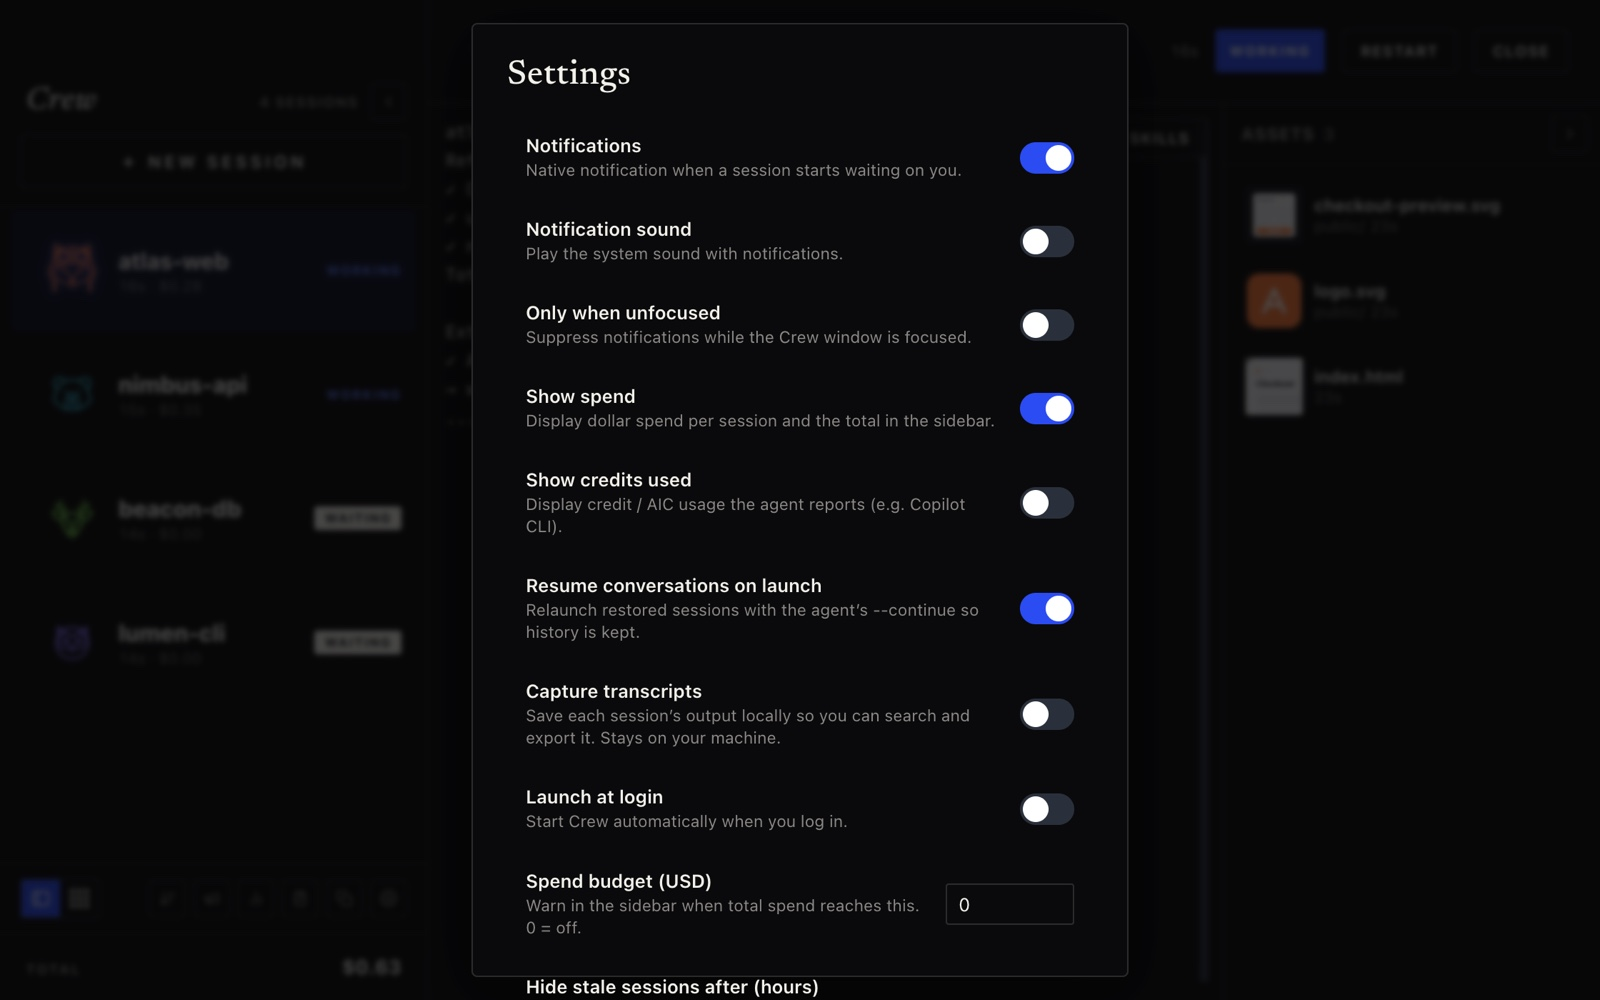
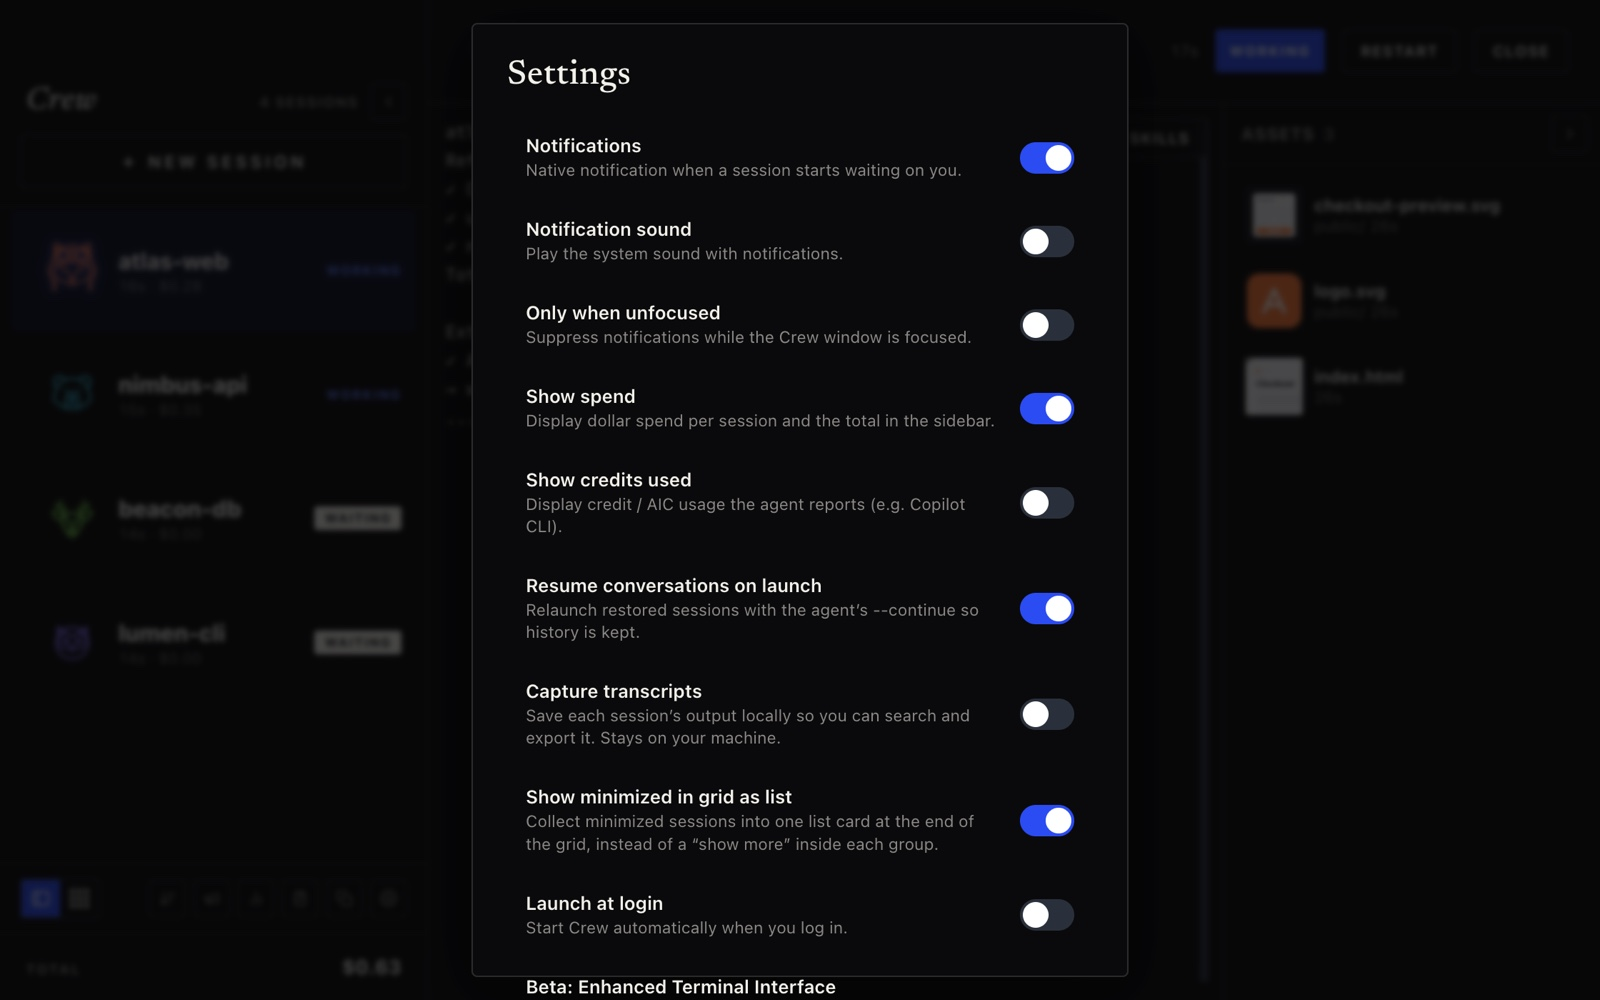
docs(guide): refresh for v0.4.0 — Enhanced Terminal, Transcript, tracker redesign
Bring the field guide up to date with the v0.4.0 release:
- New "Enhanced Terminal (Beta)" section (#13): command blocks, highlighted
  input rows, exit-code overview ruler, jump-to-prompt (⌘↑/⌘↓), clickable
  paths, inline images (Sixel/iTerm2), OSC 133 shell integration — with a
  real screenshot.
- New "Transcript view" section (#14): the typed read-layer with decision /
  approval / ran-command blocks and the Terminal/Transcript header toggle.
- Project Tracker recaptured for the redesigned Obsidian theme; copy now
  covers the Past Week review tab, "Shipped · 7d", recently-shipped commits,
  open tasks from the agent to-do list, and Launch local.
- Settings: document "Show minimized in grid as list", the Beta Enhanced
  Terminal toggle, and Auto/Manual cost mode.
- Skills: note the popularity heat dots.
- Windows section reworked for cross-platform (macOS + Windows, tray badge);
  hero + Getting Started updated to the new download assets
  (Crew-AppleSilicon.zip / Crew-Intel.zip / Crew-Setup.exe).
- Renamed the search modal section to "Search transcripts" to disambiguate
  from the new Transcript view. Feature count 21 → 23; sections renumbered;
  toolbar/tile callouts re-measured.

Harness (test/e2e/guide-shots.mjs): stage an OSC-133 shell-demo session under
the enabled Beta terminal for an authentic enhanced-terminal capture, and the
typed Transcript via the demo-fixtures flag; capture the redesigned tracker
(All tab) and the Activity tab.
[…]

diff --git a/docs/guide.html b/docs/guide.html
@@ -205,7 +205,7 @@
   <div class="nav-links">
     <a class="hide-sm" href="./index.html">Home</a>
     <a class="hide-sm" href="https://github.com/alexselig/crew">GitHub</a>
-    <a class="nav-cta" href="https://github.com/alexselig/crew/releases/latest/download/Crew-arm64.dmg">Download</a>
+    <a class="nav-cta" href="https://github.com/alexselig/crew/releases/latest">Download</a>
   </div>
 </nav>
 
@@ -215,7 +215,7 @@
     <div class="eyebrow">The Field Guide</div>
     <h1>Crew, <span class="accent">explained</span>.</h1>
     <p class="hero__lede">Crew runs a whole crew of AI coding agents side by side and tells you the moment one needs you. This is the complete tour — every view, every button, every panel — with a screenshot for each.</p>
-    <div class="hero__meta"><span><b>21</b> features indexed</span><span>·</span><span>Real screenshots</span><span>·</span><span>macOS · 100% local</span></div>
+    <div class="hero__meta"><span><b>23</b> features indexed</span><span>·</span><span>Real screenshots</span><span>·</span><span>macOS + Windows · 100% local</span></div>
   </div>
 </header>
 
@@ -233,15 +233,17 @@
     <a class="qi" href="#sorting"><span class="qi__n">10</span><b class="qi__t">Sorting &amp; grouping</b></a>
     <a class="qi" href="#assets"><span class="qi__n">11</span><b class="qi__t">The assets pane</b></a>
     <a class="qi" href="#skills"><span class="qi__n">12</span><b class="qi__t">Skills</b></a>
-    <a class="qi" href="#broadcast"><span class="qi__n">13</span><b class="qi__t">Broadcast</b></a>
-    <a class="qi" href="#analytics"><span class="qi__n">14</span><b class="qi__t">Activity &amp; spend</b></a>
-    <a class="qi" href="#tracker"><span class="qi__n">15</span><b class="qi__t">Project Tracker</b></a>
-    <a class="qi" href="#transcripts"><span class="qi__n">16</span><b class="qi__t">Transcripts</b></a>
-    <a class="qi" href="#palette"><span class="qi__n">17</span><b class="qi__t">Palette &amp; shortcuts</b></a>
-    <a class="qi" href="#settings"><span class="qi__n">18</span><b class="qi__t">Settings</b></a>
-    <a class="qi" href="#autopilot"><span class="qi__n">19</span><b class="qi__t">Autopilot</b></a>
-    <a class="qi" href="#windows"><span class="qi__n">20</span><b class="qi__t">Windows &amp; menu bar</b></a>
-    <a class="qi" href="#start"><span class="qi__n">21</span><b class="qi__t">Getting started</b></a>
+    <a class="qi" href="#terminal"><span class="qi__n">13</span><b class="qi__t">Enhanced Terminal</b></a>
+    <a class="qi" href="#transcript"><span class="qi__n">14</span><b class="qi__t">Transcript view</b></a>
+    <a class="qi" href="#broadcast"><span class="qi__n">15</span><b class="qi__t">Broadcast</b></a>
+    <a class="qi" href="#analytics"><span class="qi__n">16</span><b class="qi__t">Activity &amp; spend</b></a>
+    <a class="qi" href="#tracker"><span class="qi__n">17</span><b class="qi__t">Project Tracker</b></a>
+    <a class="qi" href="#transcripts"><span class="qi__n">18</span><b class="qi__t">Search transcripts</b></a>
+    <a class="qi" href="#palette"><span class="qi__n">19</span><b class="qi__t">Palette &amp; shortcuts</b></a>
+    <a class="qi" href="#settings"><span class="qi__n">20</span><b class="qi__t">Settings</b></a>
+    <a class="qi" href="#autopilot"><span class="qi__n">21</span><b class="qi__t">Autopilot</b></a>
+    <a class="qi" href="#windows"><span class="qi__n">22</span><b class="qi__t">Windows, menu bar &amp; platforms</b></a>
+    <a class="qi" href="#start"><span class="qi__n">23</span><b class="qi__t">Getting started</b></a>
   </div>
 </div>
 
@@ -261,14 +263,16 @@
       <li><a href="#sorting">Sorting &amp; grouping</a></li>
       <li><a href="#assets">The assets pane</a></li>
       <li><a href="#skills">Skills</a></li>
+      <li><a href="#terminal">Enhanced Terminal</a></li>
+      <li><a href="#transcript">Transcript view</a></li>
       <li><a href="#broadcast">Broadcast</a></li>
       <li><a href="#analytics">Activity &amp; spend</a></li>
       <li><a href="#tracker">Project Tracker</a></li>
-      <li><a href="#transcripts">Transcripts</a></li>
+      <li><a href="#transcripts">Search transcripts</a></li>
       <li><a href="#palette">Palette &amp; shortcuts</a></li>
       <li><a href="#settings">Settings</a></li>
       <li><a href="#autopilot">Autopilot</a></li>
-      <li><a href="#windows">Windows &amp; menu bar</a></li>
+      <li><a href="#windows">Windows, menu bar &amp; platforms</a></li>
       <li><a href="#start">Getting started</a></li>
     </ol>
   </aside>
@@ -559,18 +563,54 @@
       <p class="lead">The <b>⚡ Skills</b> chip above the terminal opens a gallery of reusable actions, grouped into categories. Crew reads the skills your agent actually has installed (Copilot / Claude), and you can pin favorites or add your own.</p>
       <figure>
         <div class="frame frame--mid"><img loading="lazy" src="assets/guide/skills.jpg" alt="The categorized skills gallery open" /></div>
-        <figcaption>The skills gallery: filter, categorized sections with colored swatches, favorite (★), and invoke.</figcaption>
+        <figcaption>The skills gallery: filter, categorized sections with colored swatches, a popularity <b>heat dot</b>, favorite (★), and invoke.</figcaption>
       </figure>
       <ul class="feat">
         <li><b>Filter</b> to find a skill fast; <b>favorites</b> pin to the front.</li>
+        <li>Each skill carries a small <b>heat dot</b> — hotter means more widely used across your installed set — so popular skills are easy to spot.</li>
         <li>Click a skill to read its description; click again (or <b>Invoke</b>) to type <code>use &lt;skill&gt; to …</code> into the session for you.</li>
         <li><b>＋ Add</b> your own custom skills (name, invoke token, description) — stored locally.</li>
       </ul>
     </section>
 
-    <!-- 13 BROADCAST -->
+    <!-- 13 ENHANCED TERMINAL -->
+    <section class="doc" id="terminal">
+      <div class="sec-eyebrow">13 · Beta</div>
+      <h2>The Enhanced Terminal.</h2>
+      <p class="lead">Flip on <b>Beta: Enhanced Terminal Interface</b> in <a href="#settings">Settings</a> and every session renders with Crew’s own GPU-accelerated terminal engine — the same stream, but now it understands the <em>shape</em> of your session.</p>
+      <figure>
+        <div class="frame"><img loading="lazy" src="assets/guide/enhanced-terminal.jpg" alt="The enhanced terminal with highlighted input rows and an exit-code overview ruler" /></div>
+        <figcaption>Command blocks, highlighted input rows, and the exit-code overview ruler on the right.</figcaption>
+      </figure>
+      <ul class="feat">
+        <li><b>Your input rows are highlighted</b> — every command you run gets a light row + amber bar, so the conversation is easy to scan.</li>
+        <li><b>Overview ruler</b> (right edge) — a map of the whole session: your prompts, plus <span style="color:#3fb950">green</span> / <span style="color:#e5484d">red</span> ticks for each command’s exit code.</li>
+        <li><b>Jump between prompts</b> with <kbd>⌘↑</kbd> / <kbd>⌘↓</kbd> (Ctrl on Windows).</li>
+        <li><b>Clickable paths &amp; links</b> — underlined, and open in Assets or your browser.</li>
+        <li><b>Inline images</b> (Sixel / iTerm2) so agents can render plots and diffs right in the stream, and opt-in <b>shell integration</b> (OSC 133) sharpens the command marks.</li>
+      </ul>
+      <div class="note">It’s <b>beta</b> and opt-in — toggling it reloads open terminals. The classic terminal remains the default.</div>
+    </section>
+
+    <!-- 14 TRANSCRIPT VIEW -->
+    <section class="doc" id="transcript">
+      <div class="sec-eyebrow">14 · Read your session like a story</div>
+      <h2>The Transcript view.</h2>
+      <p class="lead">With the enhanced terminal on, each session gains a <b>Terminal / Transcript</b> toggle in its header. The Transcript is a typed read-layer over the raw stream: your prompts, the agent’s replies, the commands it ran (with exit codes), and — crucially — the moments it’s <em>blocked on you</em>, all as clean blocks.</p>
+      <figure>
+        <div class="frame"><img loading="lazy" src="assets/guide/transcript.jpg" alt="The typed Transcript view with decision and approval blocks" /></div>
+        <figcaption>Decisions, approvals and ran-commands as structured blocks — answer a question or approve a command right from the transcript.</figcaption>
+      </figure>
+      <ul class="feat">
+        <li><b>Decisions</b> — numbered choices you can click (or press the number) to answer.</li>
+        <li><b>Approvals</b> — “Fox wants to run …” with <b>Deny / Once / Always allow</b>, wired back to the session.</li>
+        <li><b>Ran commands</b> — each with its status and exit code; the raw terminal stays the source of truth.</li>
+      </ul>
+    </section>
+
+    <!-- 15 BROADCAST -->
     <section class="doc" id="broadcast">
-      <div class="sec-eyebrow">13 · One prompt, many agents</div>
+      <div class="sec-eyebrow">15 · One prompt, many agents</div>
       <h2>Broadcast.</h2>
       <p class="lead">Send the same message to several sessions at once — great for “run the tests” or a coordinated checkpoint.</p>
       <figure>
@@ -582,7 +622,7 @@
 
     <!-- 14 ANALYTICS -->
     <section class="doc" id="analytics">
-      <div class="sec-eyebrow">14 · Where the time &amp; money went</div>
+      <div class="sec-eyebrow">16 · Where the time &amp; money went</div>
       <h2>Activity &amp; spend.</h2>
       <p class="lead">Two tabs. <b>Spend</b> totals how long each session kept you waiting, what it cost, and any credits used. <b>Activity</b> is a commit feed — the git history across your open sessions' repos, newest first, with release commits highlighted.</p>
       <figure>
@@ -595,38 +635,39 @@
       </figure>
     </section>
 
-    <!-- 15 PROJECT TRACKER -->
+    <!-- 17 PROJECT TRACKER -->
     <section class="doc" id="tracker">
-      <div class="sec-eyebrow">15 · Mission control for your repos</div>
+      <div class="sec-eyebrow">17 · Mission control for your repos</div>
       <h2>The Project Tracker.</h2>
-      <p class="lead">The clipboard button opens a full-screen <b>Project Index</b> — a live dashboard built from the working directories of your open sessions. Each session becomes a project card, derived straight from disk: git status, version, next steps, suggestions, and commit history.</p>
+      <p class="lead">The clipboard button opens a full-screen <b>Project Index</b> — a live dashboard built from the working directories of your open sessions. Each session becomes a project card, derived straight from disk: git status, version, what shipped recently, open tasks, and commit history.</p>
       <figure>
         <div class="frame"><img loading="lazy" src="assets/guide/tracker.jpg" alt="The full-screen Project Tracker dashboard" /></div>
-        <figcaption>The Project Tracker: totals up top, tag filters, then a card per project.</figcaption>
+        <figcaption>The Project Tracker: totals (Projects · Shipped 7d · Open tasks), tab filters, then a card per project.</figcaption>
       </figure>
       <ul class="feat">
         <li><b>Status at a glance</b> — a colored dot (active / recent / stale) and an “N open” task count per project.</li>
-        <li><b>Next steps</b> — pulled from each repo's <code>TODO.md</code>, <code>ROADMAP.md</code> or a “Next steps” heading; <b>Suggestions</b> are auto-derived (a missing README, stray TODO/FIXME markers…).</li>
-        <li><b>Feature history</b> — expand a project to read its changelog + commit history.</li>
-        <li><b>▶ Launch local</b> — start a project's dev server right from the tracker (Vite / Next / Node), then stop it again.</li>
+        <li><b>Recently shipped</b> — the week’s commits per project; <b>Open tasks</b> come from the session’s live agent to-do list and each repo’s <code>TODO.md</code> / “Next steps”.</li>
+        <li><b>Proposed next steps</b> — gentle auto-suggestions (add a README, wire up tests, push a remote…).</li>
+        <li><b>▶ Launch local</b> — start a project’s dev server right from the tracker (Vite / Next / Node), then stop it again.</li>
+        <li><b>Past Week</b> tab — a review of your Copilot CLI history: sessions, active days, projects and tokens for the last 7 days.</li>
         <li><b>Grouped by your session tags</b>, filterable, with an <b>Auto</b> re-scan every 20s.</li>
       </ul>
     </section>
 
-    <!-- 16 TRANSCRIPTS -->
+    <!-- 18 SEARCH TRANSCRIPTS -->
     <section class="doc" id="transcripts">
-      <div class="sec-eyebrow">16 · Search your history</div>
-      <h2>Transcripts.</h2>
-      <p class="lead">Turn on <b>Capture transcripts</b> in Settings and Crew saves each session’s output locally so you can search across everything and export a session later. It never leaves your machine.</p>
+      <div class="sec-eyebrow">18 · Search your history</div>
+      <h2>Search transcripts.</h2>
+      <p class="lead">Different from the live <a href="#transcript">Transcript view</a>: turn on <b>Capture transcripts</b> in Settings and Crew saves each session’s output locally so you can search across <em>everything</em> and export a session later. It never leaves your machine.</p>
       <figure>
         <div class="frame frame--mid"><img loading="lazy" src="assets/guide/transcripts.jpg" alt="The transcripts search modal" /></div>
         <figcaption>Search saved output across sessions, then export the selected one.</figcaption>
       </figure>
     </section>
 
-    <!-- 16 PALETTE -->
+    <!-- 19 PALETTE -->
     <section class="doc" id="palette">
-      <div class="sec-eyebrow">17 · Move fast</div>
+      <div class="sec-eyebrow">19 · Move fast</div>
       <h2>Command palette &amp; shortcuts.</h2>
       <p class="lead">Press <kbd>⌘K</kbd> for a fuzzy quick-switcher: jump to any session, run any action, or switch workspace without touching the mouse.</p>
       <figure>
@@ -645,49 +686,54 @@
 
     <!-- 17 SETTINGS -->
     <section class="doc" id="settings">
-      <div class="sec-eyebrow">18 · Dial it in</div>
+      <div class="sec-eyebrow">20 · Dial it in</div>
       <h2>Settings.</h2>
       <p class="lead">Everything is off-by-default-sensible, but you can tune it all.</p>
       <figure>
         <div class="frame frame--mid"><img loading="lazy" src="assets/guide/settings.jpg" alt="The settings panel" /></div>
-        <figcaption>Notifications, spend &amp; credits display, transcripts, launch-at-login, a spend budget and stale-session hiding.</figcaption>
+        <figcaption>Notifications, spend &amp; credits, transcripts, minimized-as-list, the Beta Enhanced Terminal, launch-at-login, a spend budget and stale-session hiding.</figcaption>
       </figure>
       <ul class="feat">
         <li><b>Notifications</b> — native alert (with optional sound) when a session starts waiting; optionally only when Crew isn’t focused.</li>
         <li><b>Show spend / credits</b> — per-session and total in the sidebar.</li>
         <li><b>Resume conversations on launch</b> — relaunch restored sessions with the agent’s <code>--continue</code>.</li>
         <li><b>Capture transcripts</b> and <b>Launch at login</b>.</li>
+        <li><b>Show minimized in grid as list</b> — collect minimized sessions into one list card at the end of the grid, instead of a “show more” inside each group.</li>
+        <li><b>Cost mode</b> — <b>Auto</b> shows agent-reported dollars; switch to <b>Manual</b> to compute spend from a credits-per-USD rate you set.</li>
+        <li><b>Beta: Enhanced Terminal Interface</b> — opt into Crew’s own terminal engine (<a href="#terminal">command blocks, jump-to-prompt, exit-code ruler</a>).</li>
         <li><b>Spend budget</b> — warn once total spend crosses a number; <b>Hide stale sessions</b> after N hours in group sort.</li>
       </ul>
     </section>
 
-    <!-- 18 AUTOPILOT -->
+    <!-- 21 AUTOPILOT -->
     <section class="doc" id="autopilot">
-      <div class="sec-eyebrow">19 · Hands-off runs</div>
+      <div class="sec-eyebrow">21 · Hands-off runs</div>
       <h2>Autopilot-aware.</h2>
       <p class="lead">When an agent is running unattended — approving its own edits — its character puts on a <b>pilot costume</b> (goggles + an ✈ badge), and a little takeoff animation plays across the header. You can tell at a glance which agents are flying solo and which are working with you in the loop.</p>
     </section>
 
-    <!-- 19 WINDOWS -->
+    <!-- 22 WINDOWS / PLATFORMS -->
     <section class="doc" id="windows">
-      <div class="sec-eyebrow">20 · Beyond one window</div>
-      <h2>Windows &amp; the menu bar.</h2>
+      <div class="sec-eyebrow">22 · Beyond one window</div>
+      <h2>Windows, the menu bar &amp; platforms.</h2>
       <ul class="feat">
+        <li><b>macOS &amp; Windows</b> — Crew ships as a native app for both (Apple Silicon, Intel, and a Windows installer).</li>
         <li><b>Multiple windows</b> — <kbd>⇧⌘N</kbd> opens another window onto the same crew, so you can put the grid on one display and a focused session on another.</li>
-        <li><b>Menu-bar badge</b> — a live count of how many sessions are waiting sits in your macOS menu bar; a native notification fires the moment one needs you.</li>
+        <li><b>Menu-bar / tray badge</b> — a live count of how many sessions are waiting sits in your menu bar (macOS) or system tray (Windows); a native notification fires the moment one needs you.</li>
         <li><b>100% local</b> — Crew owns the terminals on your machine. No account, no network, no telemetry.</li>
       </ul>
     </section>
 
-    <!-- 20 START -->
+    <!-- 23 START -->
     <section class="doc" id="start">
-      <div class="sec-eyebrow">21 · Your turn</div>
+      <div class="sec-eyebrow">23 · Your turn</div>
       <h2>Getting started.</h2>
       <p class="lead">That’s the whole tour. Download Crew, launch a couple of agents, and let the crew do the work — you’ll get pinged the moment one needs you.</p>
       <p>
-        <a class="nav-cta" style="display:inline-block;border-radius:0" href="https://github.com/alexselig/crew/releases/latest/download/Crew-arm64.dmg">↓ Download for macOS</a>
-        &nbsp;&nbsp;<a href="./index.html">Back to the overview →</a>
+        <a class="nav-cta" style="display:inline-block;border-radius:0" href="https://github.com/alexselig/crew/releases/latest/download/Crew-AppleSilicon.zip">↓ Download for macOS</a>
+        &nbsp;<a class="nav-cta" style="display:inline-block;border-radius:0;background:#f2f1ea;color:#0a0a0b" href="https://github.com/alexselig/crew/releases/latest/download/Crew-Setup.exe">↓ Download for Windows</a>
       </p>
+      <p style="font-size:13px;color:var(--faint)">macOS Intel? <a href="https://github.com/alexselig/crew/releases/latest/download/Crew-Intel.zip">Grab the Intel build</a> · <a href="./index.html">Back to the overview →</a></p>
       <a class="backtop" href="#top">↑ Back to top</a>
     </section>
   </main>
